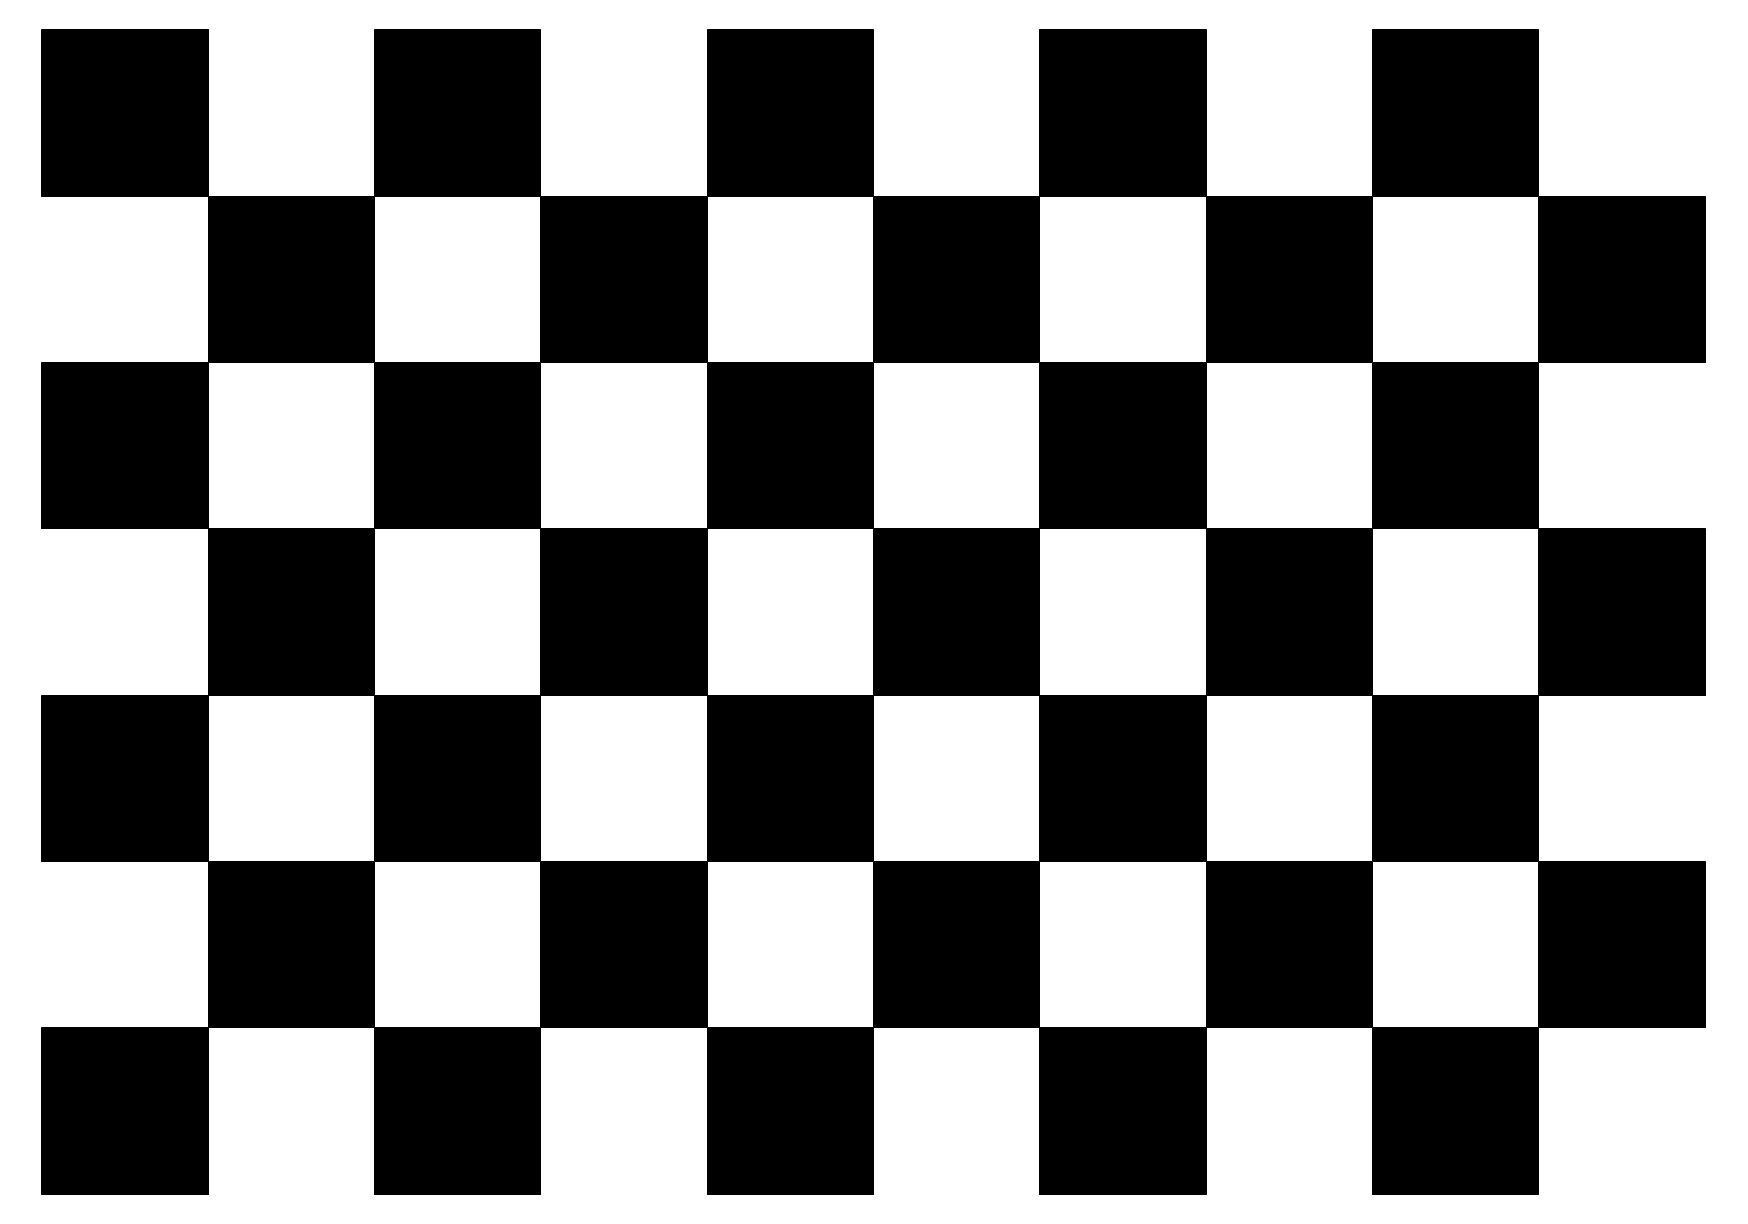
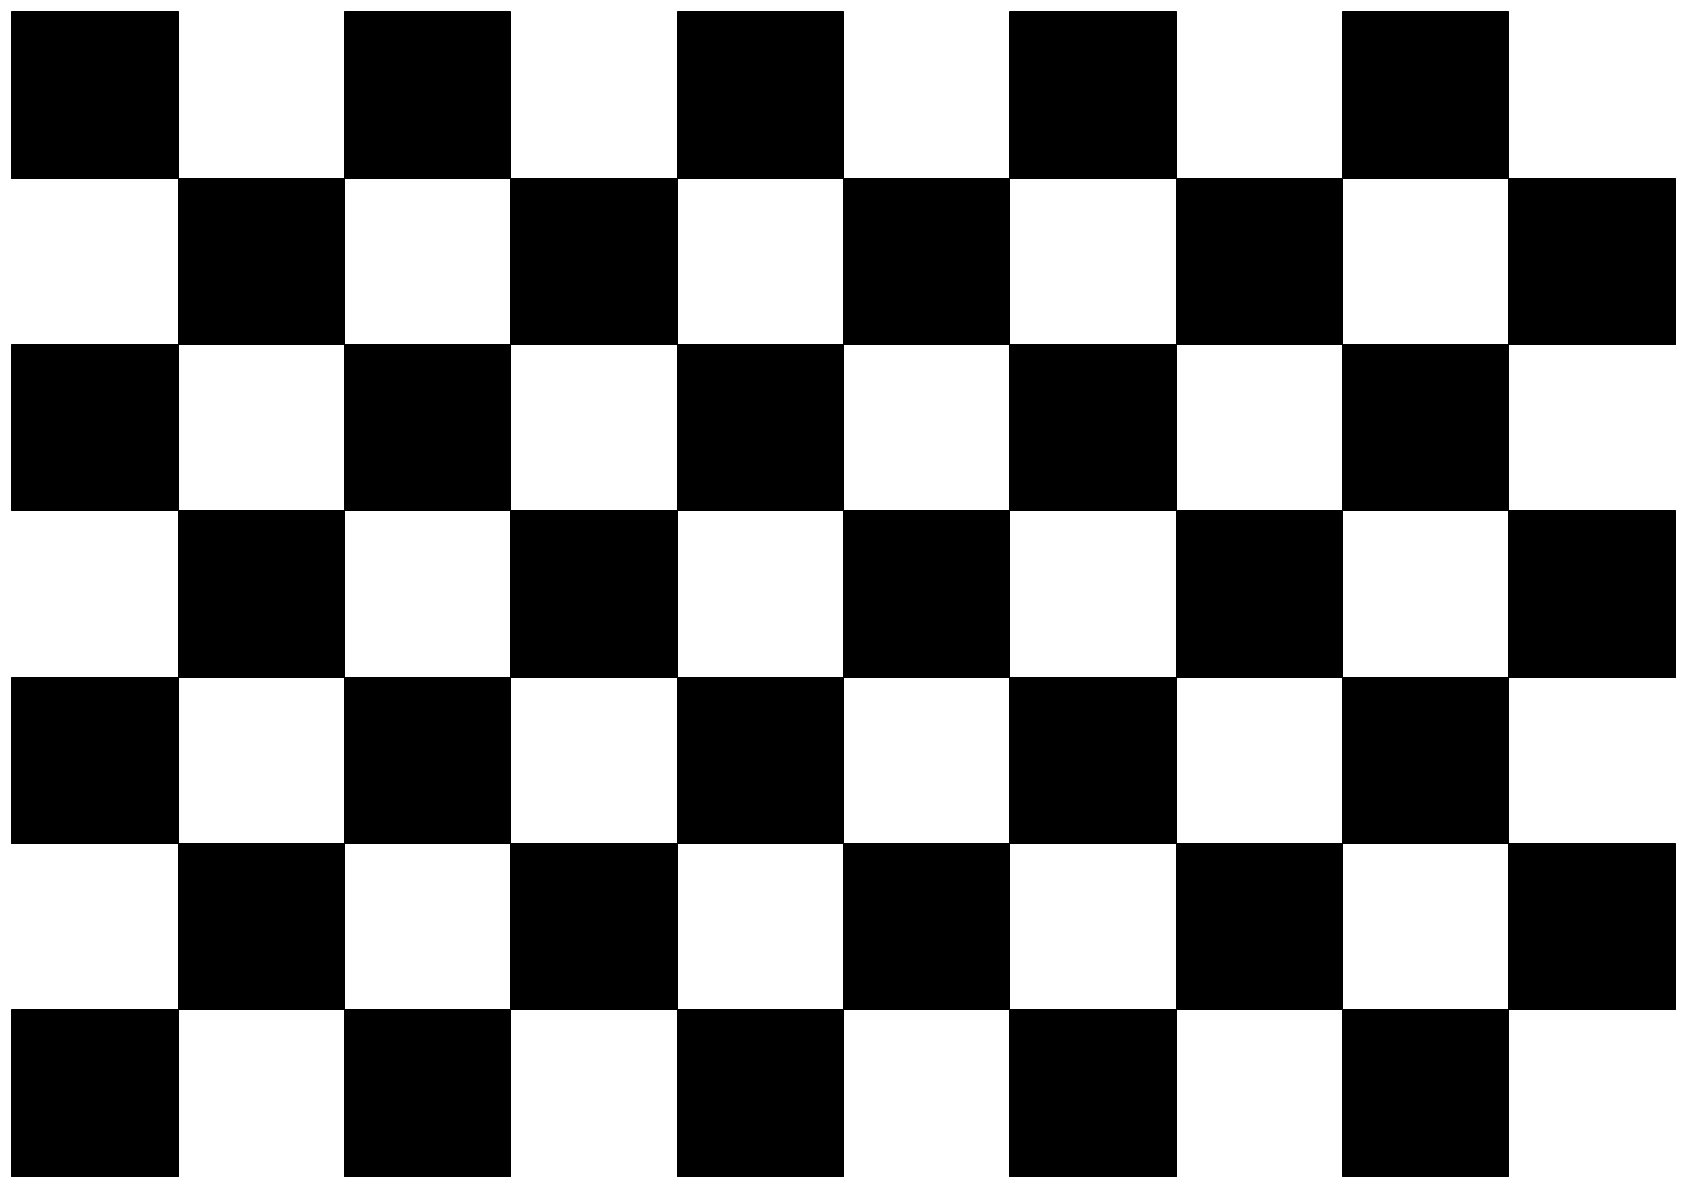
Working on using contour data for transforming

Changed region(s): [[0.0, 0.0, 1.0, 0.9966], [0.9555, 0.4049, 1.0, 0.5918]]

diff --git a/src/main/java/com/shootoff/camera/AutoCalibration/AutoCalibrationManager.java b/src/main/java/com/shootoff/camera/AutoCalibration/AutoCalibrationManager.java
@@ -99,7 +99,9 @@ public class AutoCalibrationManager implements Runnable {
 	
 	public Optional<Bounds> processFrame(BufferedImage frame)
 	{
-		boolean found = findChessboardBufferedImage(frame);
+		Mat mat = bufferedImageToMat(frame);
+		
+		boolean found = findChessboard(mat);
 		
 		if (found && seenChessboards < MIN_BOARDS)
 		{
@@ -107,7 +109,6 @@ public class AutoCalibrationManager implements Runnable {
 		}
 		else if (found)
 		{ 	
-			Mat mat = bufferedImageToMat(frame);
 			
 			Mat undistorted = new Mat();
 			
@@ -120,7 +121,7 @@ public class AutoCalibrationManager implements Runnable {
 				Highgui.imwrite(filename, mat);
 			}
 			
-			undistorted = warpPerspective(mat, imageCorners);
+			undistorted = warpPerspective(mat);
 			
 			// TODO: HANDLE UPSIDE DOWN PATTERN BY WARNING USER AND NOT CALIBRATING
 			
@@ -138,84 +139,7 @@ public class AutoCalibrationManager implements Runnable {
 				return Optional.empty();
 			
 			
-			/*int minX = (int) bounds.get().getMinX();
-			int minY = (int) bounds.get().getMinY();
-			int width = (int) bounds.get().getWidth();
-			int height = (int) bounds.get().getHeight();*/
-			int maxX = 0, maxY = 0, minX = CameraManager.FEED_WIDTH, minY = CameraManager.FEED_HEIGHT;
-			
-			
-			Mat lines = new Mat();
-		    Mat grey = new Mat();
-		    Mat temp;
-		    Imgproc.cvtColor(undistorted, grey, Imgproc.COLOR_BGR2GRAY);
 
-		    
-		    //Imgproc.GaussianBlur(grey, grey, new Size(3,3),4);
-			Imgproc.Canny(grey, grey, 50, 150); 
-
-			Imgproc.HoughLinesP(grey, lines, 1, Math.PI/180, 1, bounds.get().getHeight(), 10);
-			
-		    temp = grey.clone();
-			
-			final Mat hierarchy = new Mat();
-            final List<MatOfPoint> contoursList = new ArrayList<MatOfPoint>();
-            Imgproc.findContours(temp, contoursList, hierarchy,
-                    Imgproc.RETR_EXTERNAL, Imgproc.CHAIN_APPROX_SIMPLE);
-            for (MatOfPoint contour : contoursList) {
-
-            	Rect rect = Imgproc.boundingRect( contour );
-            	if (rect.width > bounds.get().getWidth() && rect.height > bounds.get().getHeight())
-            	{
-            		logger.warn("contour {} {} - {} {} {} {}", contour.rows(), contour.cols(), rect.x, rect.y, rect.x+rect.width, rect.y+rect.height);
-            		Core.rectangle(undistorted, new Point(rect.x, rect.y), new Point(rect.x+rect.width, rect.y+rect.height), new Scalar(255,0,0));
-            		
-            		minX = rect.x;
-            		minY = rect.y;
-            		maxX = rect.x+rect.width;
-            		maxY = rect.y+rect.height;
-            	}
-            }
-            //Imgproc.drawContours(undistorted, contoursList, -1, new Scalar(255, 0, 0));
-			
-			logger.warn("houghlines {} {}", lines.rows(), lines.cols());
-			
-			for (int i = 0; i < lines.cols(); i++)
-			{
-				
-
-				double houghWidth = Math.abs(lines.get(0, i)[2] - lines.get(0, i)[0]);
-				double houghHeight = Math.abs(lines.get(0, i)[3] - lines.get(0, i)[1]);
-
-				
-				if (houghWidth >= bounds.get().getWidth()-50 || houghHeight >= bounds.get().getHeight()-50)
-				{
-					logger.warn("houghlines {} - {} {}", lines.get(0, i), houghWidth, houghHeight);
-					//Core.line(undistorted, new Point(lines.get(0, i)[0], lines.get(0, i)[1]), new Point(lines.get(0, i)[2], lines.get(0, i)[3]), new Scalar(255, 0, 0));
-					
-					if (lines.get(0, i)[0] < minX)
-						minX = (int) lines.get(0, i)[0];
-					if (lines.get(0, i)[2] < minX)
-						minX = (int) lines.get(0, i)[2];
-					if (lines.get(0, i)[1] < minY)
-						minY = (int) lines.get(0, i)[1];
-					if (lines.get(0, i)[3] < minY)
-						minY = (int) lines.get(0, i)[3];
-					
-					if (lines.get(0, i)[0] > maxX)
-						maxX = (int) lines.get(0, i)[0];
-					if (lines.get(0, i)[2] > maxX)
-						maxX = (int) lines.get(0, i)[2];
-					if (lines.get(0, i)[1] > maxY)
-						maxY = (int) lines.get(0, i)[1];
-					if (lines.get(0, i)[3] > maxY)
-						maxY = (int) lines.get(0, i)[3];
-				}
-				
-				
-			}
-			
-			logger.warn("boundslines {} {} {} {}", minX, minY, maxX, maxY);
 			
 			
 			String filename = String.format("calibrate-undist-lines-%s.png",seenChessboards);
@@ -224,12 +148,7 @@ public class AutoCalibrationManager implements Runnable {
 			Highgui.imwrite(filename, undistorted);
 			
 			
-			filename = String.format("calibrate-undist-grey-lines-%s.png",seenChessboards);
-			file = new File(filename);
-			filename = file.toString();
-			Highgui.imwrite(filename, grey);			
-			logger.warn("bounds {} {} {} {}", bounds.get().getMinX(), bounds.get().getMinY(), bounds.get().getWidth(), bounds.get().getHeight());
-			
+
 			if (logger.isTraceEnabled())
 			{
 				/*undistorted = undistorted.submat(minY, minY+height, minX, minX+width);
@@ -249,6 +168,55 @@ public class AutoCalibrationManager implements Runnable {
 		return Optional.empty();
 	}
 	
+	private boolean findProjectionArea(Mat frame)
+	{
+		boolean result = false;
+		
+		int maxX = 0, maxY = 0, minX = CameraManager.FEED_WIDTH, minY = CameraManager.FEED_HEIGHT;
+		
+	    Mat grey = new Mat();
+	    Mat temp;
+	    Imgproc.cvtColor(frame, grey, Imgproc.COLOR_BGR2GRAY);
+
+		Imgproc.Canny(grey, grey, 50, 150); 
+
+	    temp = grey.clone();
+	    
+	    // use actual contour bounds and estimate of pattern dimensions to transform
+		
+		final Mat hierarchy = new Mat();
+        final List<MatOfPoint> contoursList = new ArrayList<MatOfPoint>();
+        Imgproc.findContours(temp, contoursList, hierarchy,
+                Imgproc.RETR_EXTERNAL, Imgproc.CHAIN_APPROX_SIMPLE);
+        for (MatOfPoint contour : contoursList) {
+        	result = false;
+
+        	Rect rect = Imgproc.boundingRect( contour );
+        	if (rect.width > boundingBox.getWidth() && rect.height > boundingBox.getHeight())
+        	{
+        		logger.warn("contour {} {} - {} {} {} {}", contour.rows(), contour.cols(), rect.x, rect.y, rect.x+rect.width, rect.y+rect.height);
+        		Core.rectangle(frame, new Point(rect.x, rect.y), new Point(rect.x+rect.width, rect.y+rect.height), new Scalar(255,0,0));
+        		
+        		minX = rect.x;
+        		minY = rect.y;
+        		maxX = rect.x+rect.width;
+        		maxY = rect.y+rect.height;
+        		
+                boundingBox = new BoundingBox(minX, minY, rect.width, rect.height);
+                result = true;
+        	}
+        }
+        //Imgproc.drawContours(undistorted, contoursList, -1, new Scalar(255, 0, 0));
+		
+		String filename = String.format("calibrate-undist-grey-lines-%s.png",seenChessboards);
+		File file = new File(filename);
+		filename = file.toString();
+		Highgui.imwrite(filename, grey);			
+		
+		logger.warn("boundslines {} {} {} {}", minX, minY, maxX, maxY);
+		
+		return result;
+	}
 	
 	public BufferedImage matToBufferedImage(Mat matBGR){  
 	      int width = matBGR.width(), height = matBGR.height(), channels = matBGR.channels() ;  
@@ -308,9 +276,9 @@ public class AutoCalibrationManager implements Runnable {
 	
 	
 
-	public Mat warpPerspective(final Mat image, MatOfPoint2f corners)
+	public Mat warpPerspective(final Mat image)
 	{
-		Mat mat=new Mat(image.rows(),image.cols(),CvType.CV_32FC1);
+		Mat mat = image.clone();
 		
 		if (!warpInitialized)
 		{
@@ -332,7 +300,9 @@ public class AutoCalibrationManager implements Runnable {
 				rotatedCorners.put(i, 0, newpt.x, newpt.y);
 			}
 			
+			Imgproc.warpAffine( mat, mat, rotMatrix, mat.size() );
 			
+
 			//1st-------2nd
 			// |         |
 			// |         |
@@ -349,34 +319,47 @@ public class AutoCalibrationManager implements Runnable {
 
 			
 			RotatedRect box = Imgproc.minAreaRect(cropsrc);
-			MatOfPoint2f cropdst = new MatOfPoint2f();
-			cropdst.alloc(4);
-			cropdst.put(0, 0, box.boundingRect().x, box.boundingRect().y,
-					box.boundingRect().x+box.boundingRect().width, box.boundingRect().y,
-					box.boundingRect().x, box.boundingRect().y+box.boundingRect().height,
-					box.boundingRect().x+box.boundingRect().width, box.boundingRect().y+box.boundingRect().height);
+
 			
 			boundingBox = new BoundingBox(box.boundingRect().x, box.boundingRect().y, box.boundingRect().width, box.boundingRect().height);
 			
-			if (logger.isDebugEnabled())
-			{
-				logger.debug("bounds {} - {} - {}", bounds.get(0, 0), cropsrc.get(0, 0), cropdst.get(0, 0));
-				logger.debug("bounds {} - {} - {}", bounds.get(1, 0), cropsrc.get(1, 0), cropdst.get(1, 0));
-				logger.debug("bounds {} - {} - {}", bounds.get(2, 0), cropsrc.get(2, 0), cropdst.get(2, 0));
-				logger.debug("bounds {} - {} - {}", bounds.get(3, 0), cropsrc.get(3, 0), cropdst.get(3, 0));
+			logger.warn("orig bounds - {} {} {} {}", boundingBox.getMinX(), boundingBox.getMinY(), boundingBox.getWidth(), boundingBox.getHeight());
 			
-				logger.debug("sizes {} {} - {} {} {}", cropsrc.size(), cropdst.size(), box.angle, box.center, box.size);
+			findProjectionArea(mat);
+			
+			logger.warn("ratios - {} - expected {}", boundingBox.getWidth()/boundingBox.getHeight(), (9.0/7.0));
+
+			MatOfPoint2f cropdst = new MatOfPoint2f();
+			cropdst.alloc(4);
+			cropdst.put(0, 0, boundingBox.getMinX(), boundingBox.getMinY(),
+					boundingBox.getMinX()+boundingBox.getWidth(), boundingBox.getMinY(),
+					boundingBox.getMinX(), boundingBox.getMinY()+boundingBox.getHeight(),
+					boundingBox.getMinX()+boundingBox.getWidth(), boundingBox.getMinY()+boundingBox.getHeight());
+			
+			if (logger.isWarnEnabled())
+			{
+				logger.warn("bounds {} - {} - {}", bounds.get(0, 0), cropsrc.get(0, 0), cropdst.get(0, 0));
+				logger.warn("bounds {} - {} - {}", bounds.get(1, 0), cropsrc.get(1, 0), cropdst.get(1, 0));
+				logger.warn("bounds {} - {} - {}", bounds.get(2, 0), cropsrc.get(2, 0), cropdst.get(2, 0));
+				logger.warn("bounds {} - {} - {}", bounds.get(3, 0), cropsrc.get(3, 0), cropdst.get(3, 0));
+			
+				logger.warn("sizes {} {} - {} {} {}", cropsrc.size(), cropdst.size(), box.angle, box.center, box.size);
 			}
 			
 			perspMat = Imgproc.getPerspectiveTransform(cropsrc, cropdst);
+			
+			Imgproc.warpPerspective(mat,mat,perspMat,mat.size(), Imgproc.INTER_LINEAR);
+			
+			
 		}
+		else
+		{
 		
-		mat = image.clone();
+			Imgproc.warpAffine( mat, mat, rotMatrix, mat.size() );
 		
-		Imgproc.warpAffine( mat, mat, rotMatrix, mat.size() );
-		
-		Imgproc.warpPerspective(mat,mat,perspMat,mat.size(), Imgproc.INTER_LINEAR);
-		
+			Imgproc.warpPerspective(mat,mat,perspMat,mat.size(), Imgproc.INTER_LINEAR);
+		}
+			
 		return mat;
 	}
 	
@@ -446,7 +429,7 @@ public class AutoCalibrationManager implements Runnable {
 		
 		Mat mat = bufferedImageToMat(frame);
 		
-		frame = matToBufferedImage(warpPerspective(mat, imageCorners));
+		frame = matToBufferedImage(warpPerspective(mat));
 		
 		return frame;
 	}

diff --git a/src/test/java/com/shootoff/camera/TestAutoCalibration.java b/src/test/java/com/shootoff/camera/TestAutoCalibration.java
@@ -224,5 +224,77 @@ public class TestAutoCalibration {
 		assertTrue(calibrationBounds.isPresent());
 
 	}
+	
+	
+	@Test
+	public void testCalibrateTightPattern() throws IOException {
+		BufferedImage testFrame = ImageIO.read(
+					TestAutoCalibration.class.getResourceAsStream("/autocalibration/tight-calibration-pattern.png"));
+
+		Optional<Bounds> calibrationBounds = Optional.empty();
+		
+		boolean calibrated = false;
+		
+		for (int i = 0; i <= 5; i++)
+		{
+			
+			if (!calibrated)
+			{
+				calibrationBounds = acm.processFrame(testFrame);
+				if (calibrationBounds.isPresent())
+					calibrated = true;
+			}
+			
+			else if (calibrated)
+			{
+				calibrated = true;
+				
+				// Make sure this matches a saved image
+				//BufferedImage newFrame = acm.undistortFrame(testFrame, i);
+				
+			}
+		}
+		
+		assertEquals(true, calibrated);
+		
+		assertTrue(calibrationBounds.isPresent());
+
+	}
+
+
+	@Test
+	public void testCalibrateTightPatternTurned() throws IOException {
+		BufferedImage testFrame = ImageIO.read(
+					TestAutoCalibration.class.getResourceAsStream("/autocalibration/tight-calibration-pattern-turned.png"));
+
+		Optional<Bounds> calibrationBounds = Optional.empty();
+		
+		boolean calibrated = false;
+		
+		for (int i = 0; i <= 5; i++)
+		{
+			
+			if (!calibrated)
+			{
+				calibrationBounds = acm.processFrame(testFrame);
+				if (calibrationBounds.isPresent())
+					calibrated = true;
+			}
+			
+			else if (calibrated)
+			{
+				calibrated = true;
+				
+				// Make sure this matches a saved image
+				//BufferedImage newFrame = acm.undistortFrame(testFrame, i);
+				
+			}
+		}
+		
+		assertEquals(true, calibrated);
+		
+		assertTrue(calibrationBounds.isPresent());
+
+	}
 }
 
